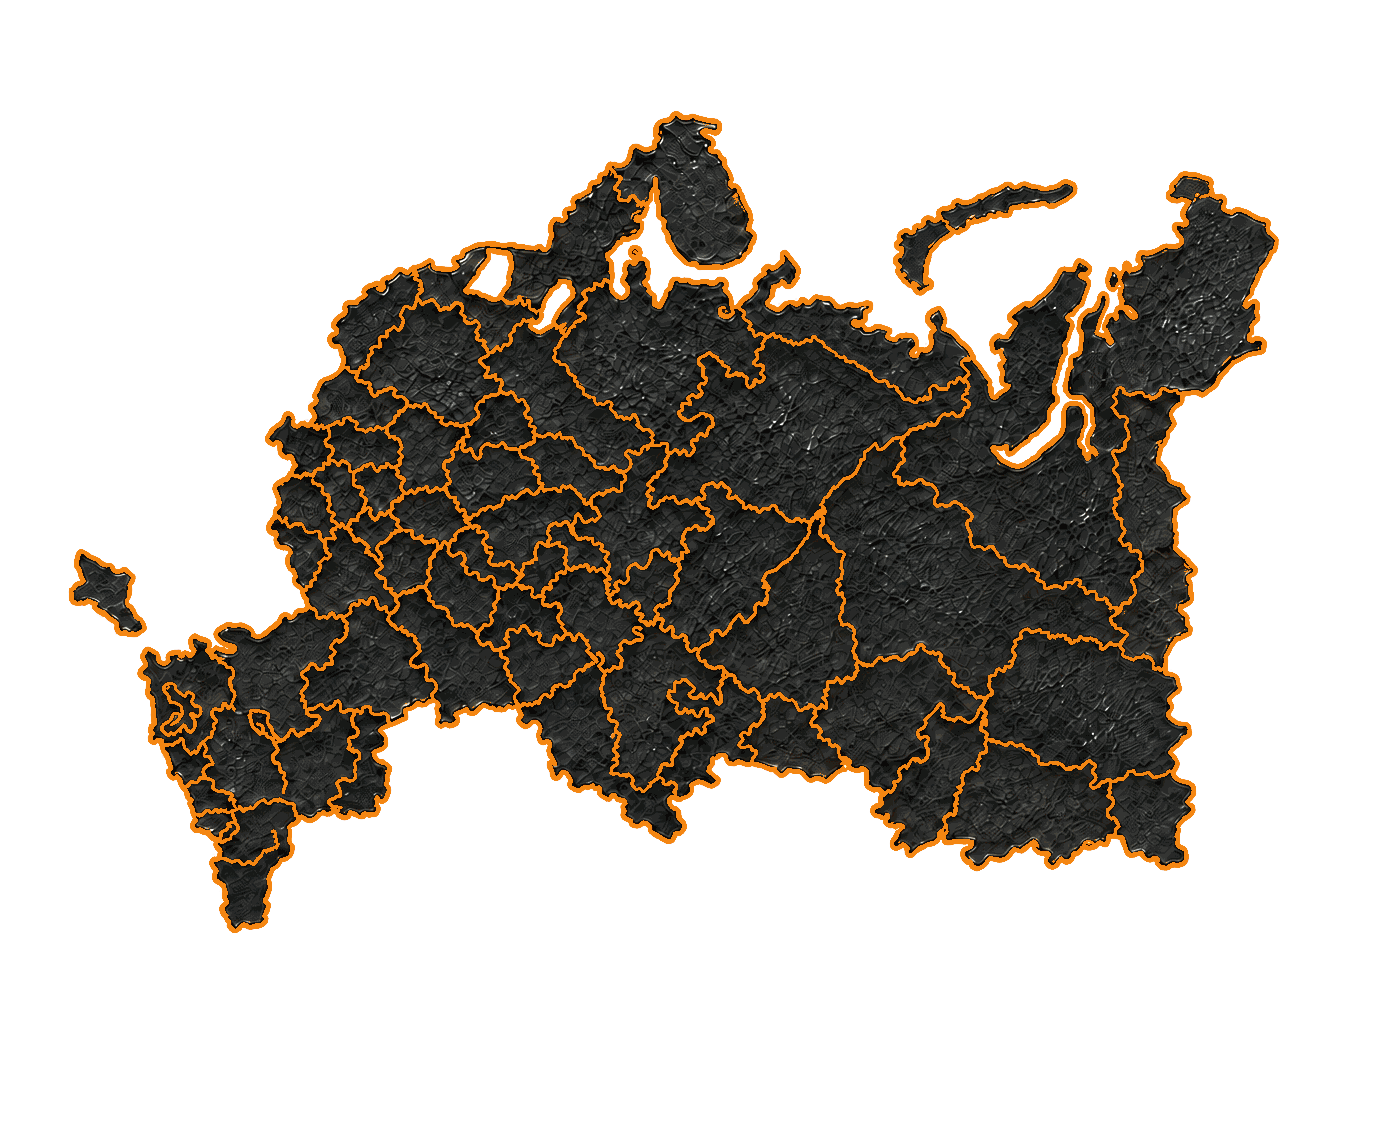
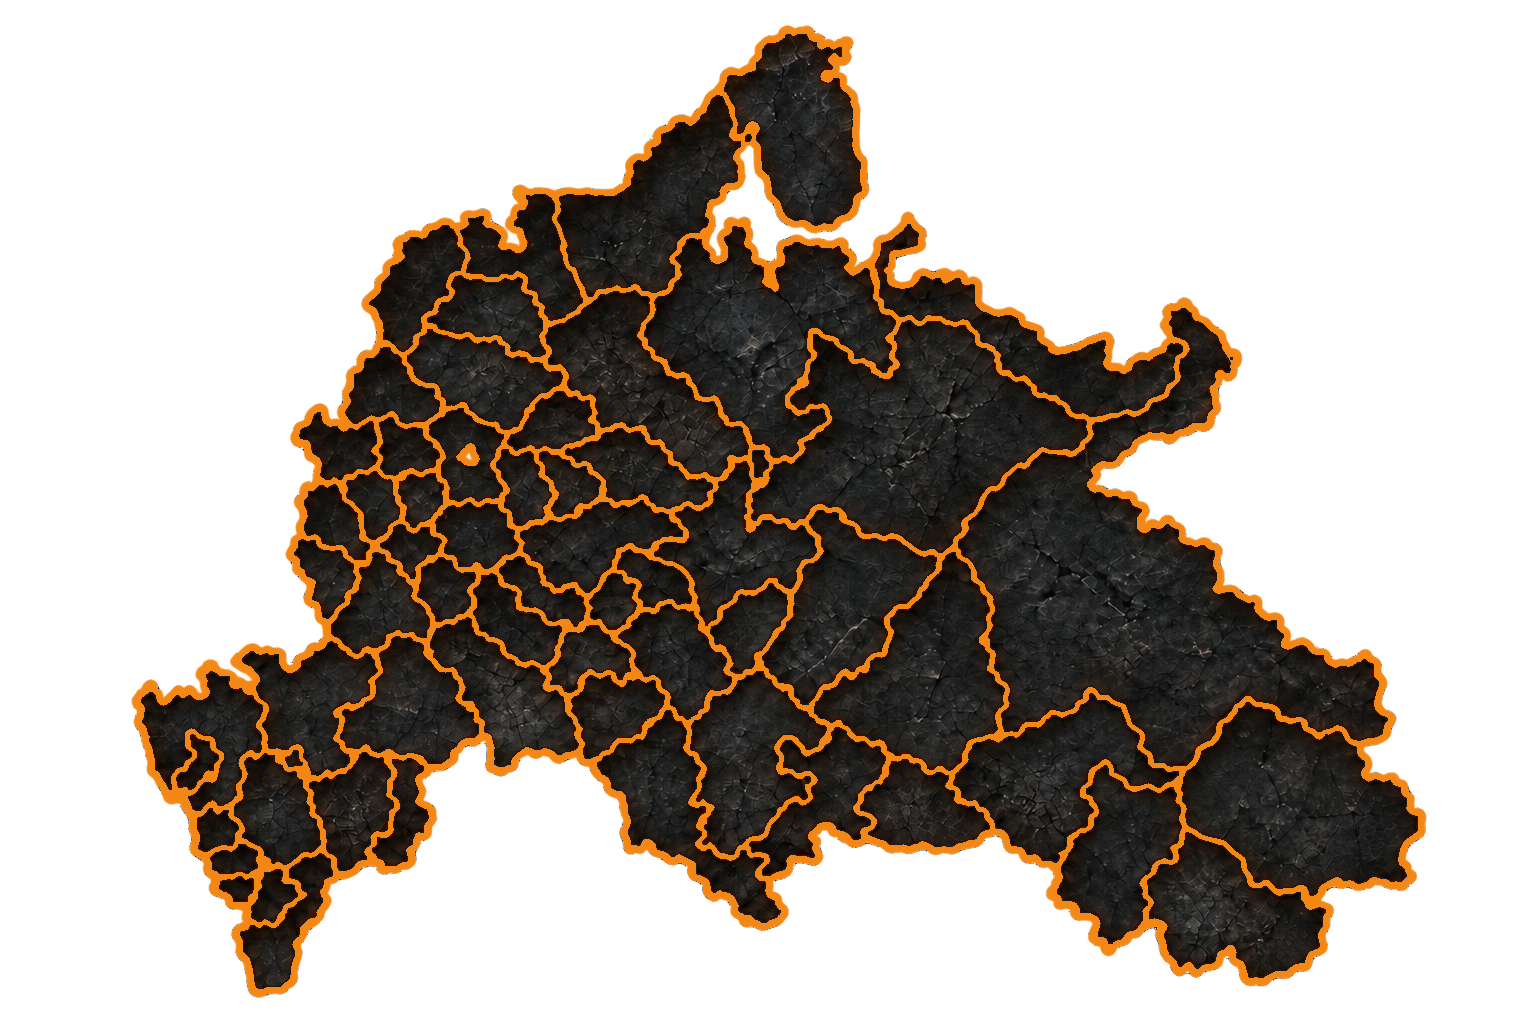
Обновление сайта

diff --git a/index.html b/index.html
@@ -300,11 +300,11 @@
                             </div> 
                         </div> 
                         <div class="geography-map">
-                            <svg class="geography-map-svg" viewBox="0 0 1400 1123" preserveAspectRatio="xMidYMid meet" role="img" aria-label="Интерактивная карта регионов присутствия ЭнергоГрупп">
+                            <svg class="geography-map-svg" viewBox="0 0 1536 1024" preserveAspectRatio="xMidYMid meet" role="img" aria-label="Интерактивная карта регионов присутствия ЭнергоГрупп">
                                 <defs> 
                                     <filter id="geography-glow" x="-200%" y="-200%" width="400%" height="400%"><feGaussianBlur stdDeviation="5" result="blur"/><feMerge><feMergeNode in="blur"/><feMergeNode in="SourceGraphic"/></feMerge></filter> 
                                 </defs> 
-                                <image class="geography-map-art" href="assets/images/geography-russia-west-imagegen.png?v=3" x="0" y="0" width="1400" height="1123" preserveAspectRatio="xMidYMid meet"/>
+                                <image class="geography-map-art" href="assets/images/geography-russia-west-imagegen.png?v=5" x="0" y="0" width="1536" height="1024" preserveAspectRatio="xMidYMid meet"/>
                                 <g class="geography-points" aria-label="Регионы присутствия ЭнергоГрупп"></g>
                             </svg> 
                             <aside class="geography-region" aria-hidden="true" aria-live="polite" data-geography-popup> 
@@ -485,7 +485,7 @@
                         <a class="brand brand-footer" href="#top" aria-label="Энерго Групп — на главную"><img src="assets/images/logo-energogrupp-384.png" width="384" height="256" decoding="async" alt=""></a> 
                         <a href="tel:+74822785474">+7 (4822) 78-54-74</a> 
                         <a href="mailto:info@egroupp.ru">info@egroupp.ru</a> 
-                        <p>г. Тверь, ул. Маршала Конева,<br>д. 12/2, корп. 1, пом. XXV</p> 
+                        <p>150054, г. Ярославль, ул. Щапова,<br>д. 20, помещение 311</p> 
                         <a class="to-top" href="#top">Наверх ↑</a> 
                     </div>                     
                 </div>                 

diff --git a/script.js b/script.js
@@ -1211,11 +1211,11 @@ if (geography) {
   let visibleRegion = '';
   let geographyCloseTimer = 0;
   const geographyMarkerPositions = {
-    murmansk: [703, 211], leningrad: [364, 323], vologda: [524, 365], smolensk: [372, 534],
-    tver: [428, 442], yaroslavl: [494, 474], moscow: [435, 515], vladimir: [516, 529],
-    nizhny: [736, 552], bryansk: [270, 667], oryol: [375, 651], tula: [452, 586],
-    ryazan: [604, 626], lipetsk: [465, 669], tambov: [536, 669], voronezh: [578, 730],
-    volgograd: [783, 737]
+    murmansk: [807, 136], leningrad: [545, 272], vologda: [603, 354], smolensk: [385, 389],
+    tver: [474, 373], yaroslavl: [560, 420], moscow: [468, 454], vladimir: [526, 496],
+    nizhny: [573, 550], bryansk: [345, 450], oryol: [376, 495], tula: [421, 494],
+    ryazan: [475, 531], lipetsk: [448, 592], tambov: [500, 614], voronezh: [416, 712],
+    volgograd: [408, 824]
   };
   const geographyMarkerOrder = [...geographyControls].sort((first, second) => {
     const [firstX, firstY] = geographyMarkerPositions[first.dataset.region];

diff --git a/tmp_marker_probe.py b/tmp_marker_probe.py
@@ -1,0 +1,30 @@
+from PIL import Image, ImageDraw, ImageFilter
+
+image = Image.open("assets/images/geography-russia-west-imagegen.png").convert("RGBA")
+pixels = image.load()
+barrier = Image.new("L", image.size, 0)
+barrier_pixels = barrier.load()
+for y in range(image.height):
+    for x in range(image.width):
+        r, g, b, _ = pixels[x, y]
+        if r > 220 and 70 < g < 180 and b < 60:
+            barrier_pixels[x, y] = 255
+
+seen = {}
+for seed in [(x, y) for y in range(560, 721, 20) for x in range(340, 581, 20)]:
+    component = barrier.copy()
+    ImageDraw.floodfill(component, seed, 128, thresh=0)
+    component = component.point(lambda value: 255 if value == 128 else 0)
+    depth = 0
+    last = component
+    while component.getbbox():
+        last = component
+        component = component.filter(ImageFilter.MinFilter(3))
+        depth += 1
+    bbox = last.getbbox()
+    center = ((bbox[0] + bbox[2] - 1) // 2, (bbox[1] + bbox[3] - 1) // 2)
+    seen.setdefault(center, (seed, depth))
+
+for center, (seed, depth) in sorted(seen.items(), key=lambda item: item[0][1]):
+    if 300 < center[0] < 650 and 500 < center[1] < 760:
+        print(seed, "->", center, "depth", depth)
